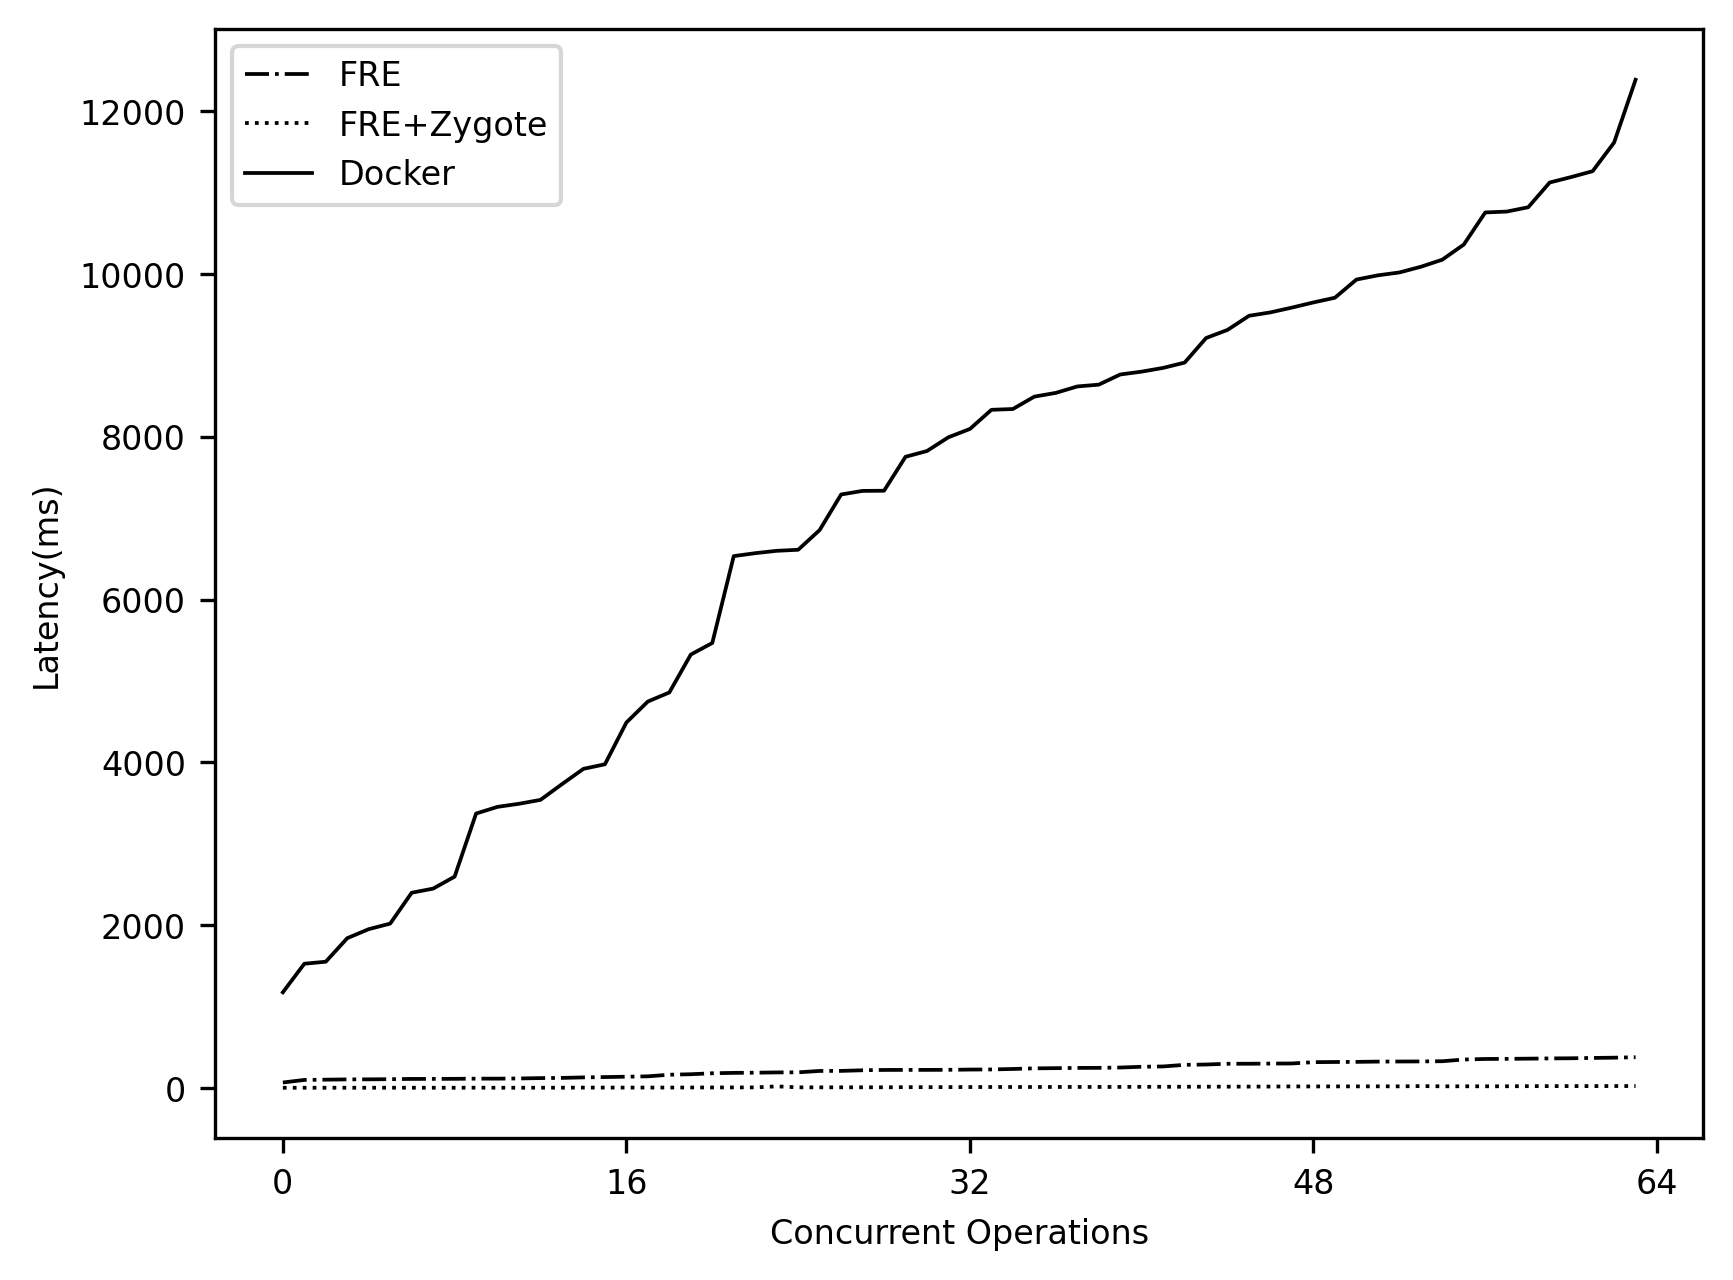
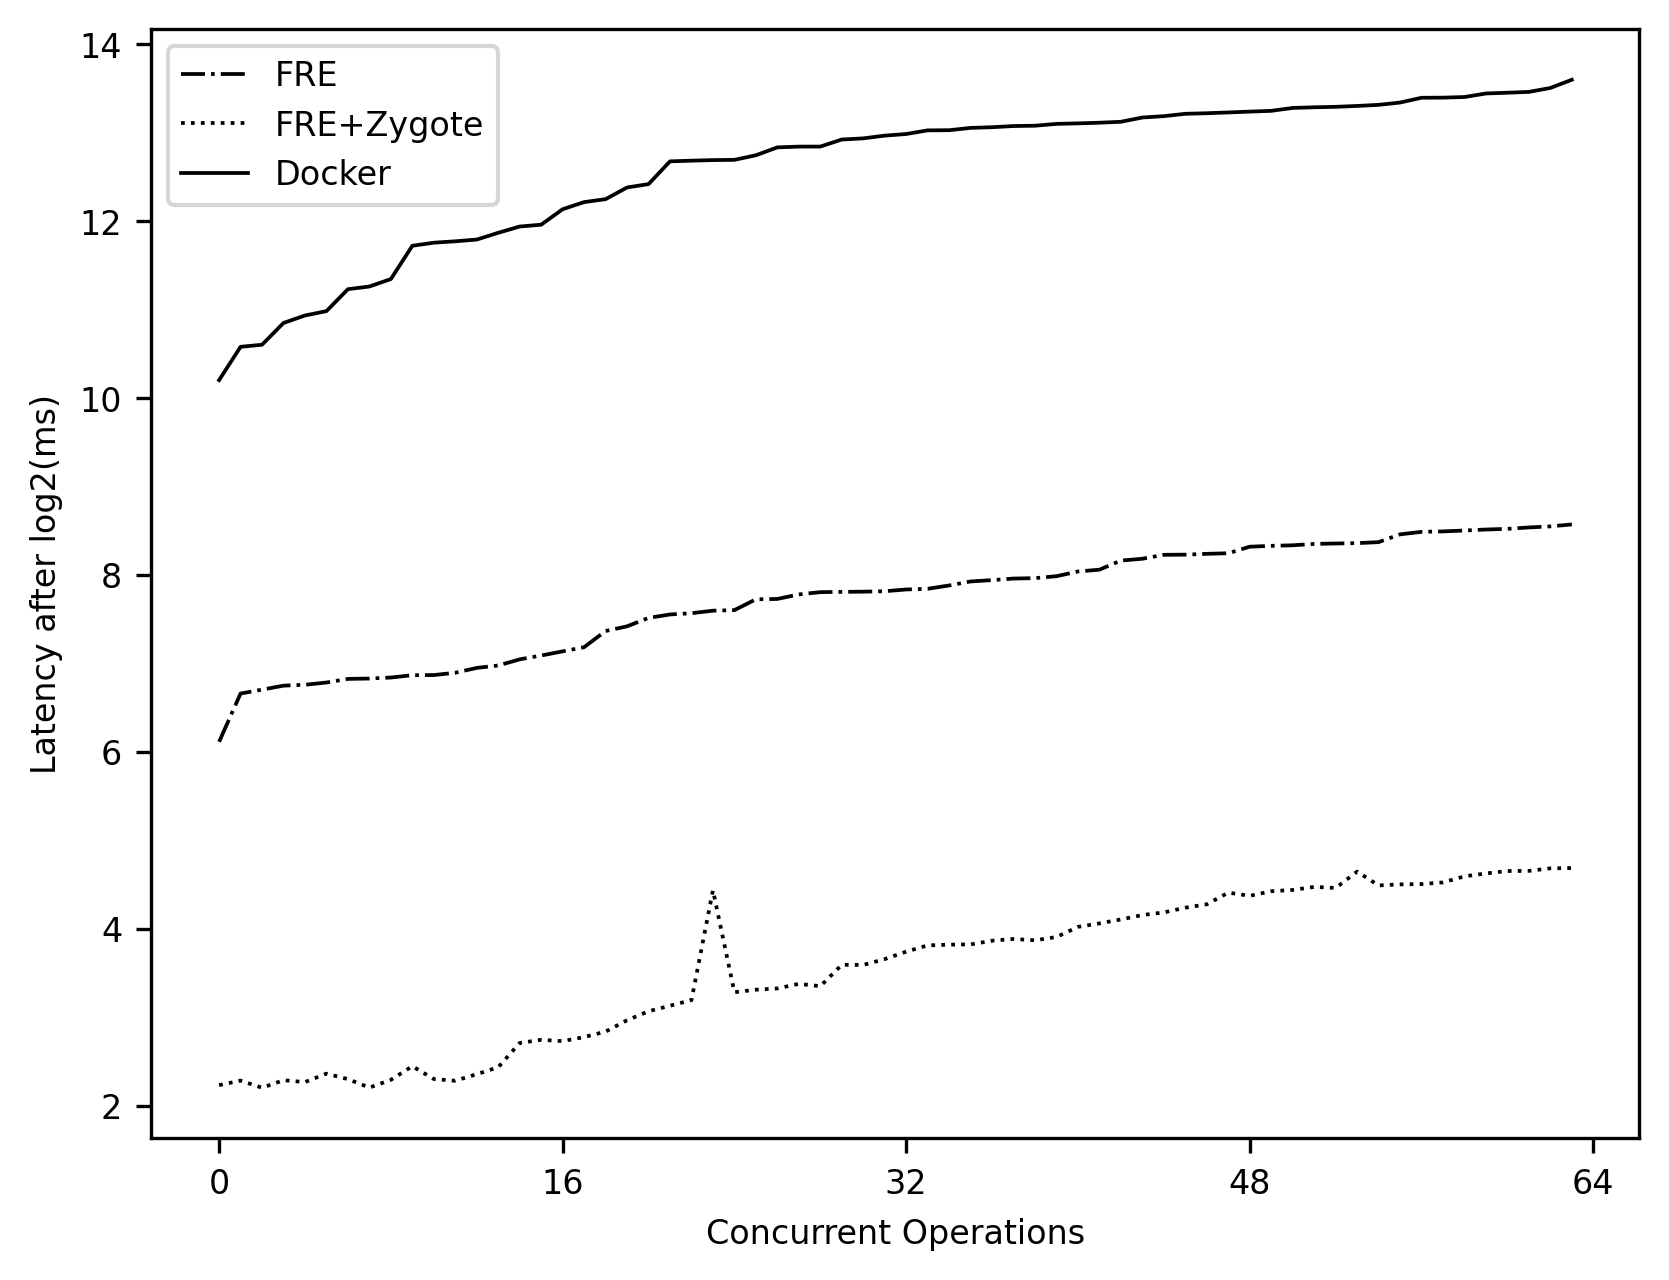
update images

diff --git a/result/6.2-zygote/6.2.1/parallel/draw.py b/result/6.2-zygote/6.2.1/parallel/draw.py
@@ -26,7 +26,7 @@ def draw():
         for j in range(0, len(matrix[i])):
             matrix[i][j] = matrix[i][j] / 1000
             # matrix[i][j] = math.sqrt(matrix[i][j])
-            # matrix[i][j] = np.log2(matrix[i][j])
+            matrix[i][j] = np.log2(matrix[i][j])
 
     plt.plot(matrix[0], matrix[2], '-.', color='k', label="FRE", linewidth=0.9)
     plt.plot(matrix[0], matrix[1], ':', color='k', label="FRE+Zygote", linewidth=0.9)
@@ -34,7 +34,7 @@ def draw():
 
     plt.legend(loc='best', fontsize=fz)
     plt.xlabel('Concurrent Operations', fontsize=fz)
-    plt.ylabel('Latency(ms)', fontsize=fz)
+    plt.ylabel('Latency after log2(ms)', fontsize=fz)
     plt.xticks([0, 16, 32, 48, 64])
     plt.tick_params(labelsize=fz)
 
